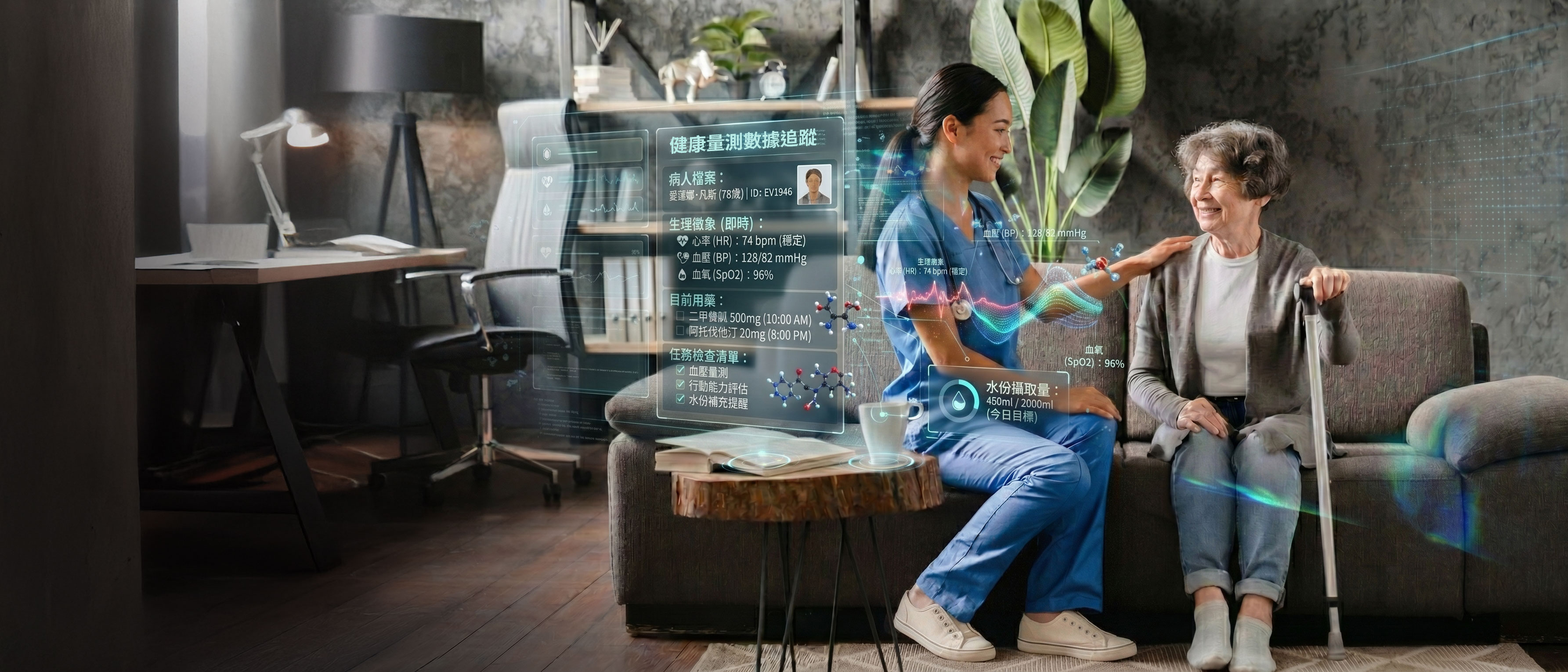
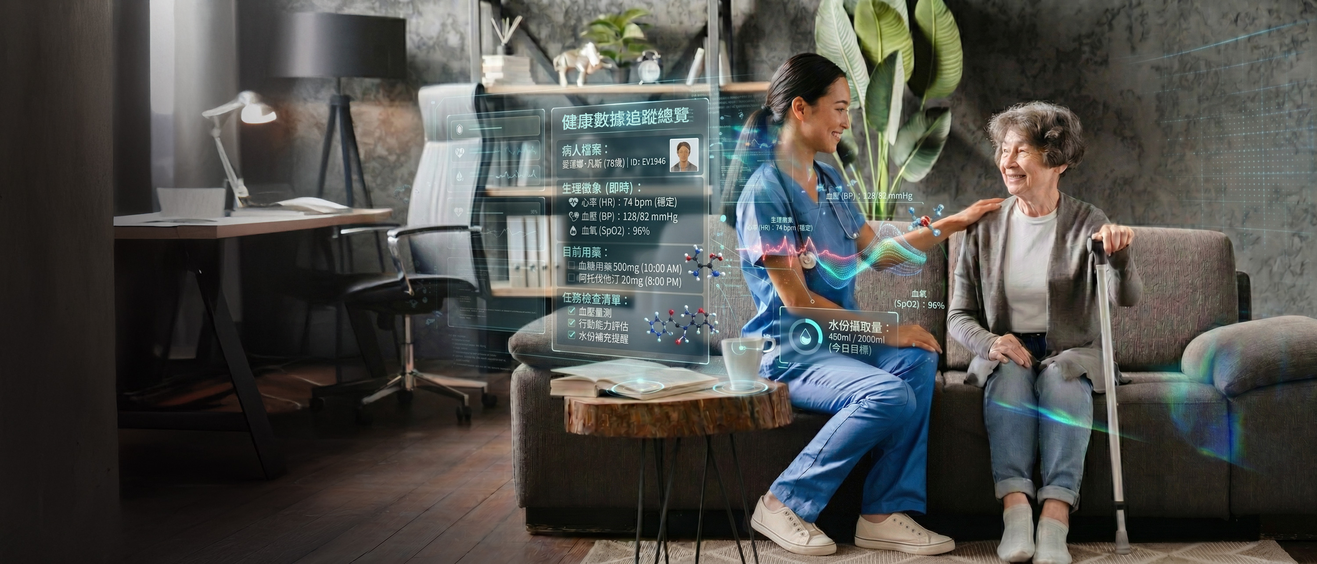
img

diff --git a/web_EZCON_2024IntelligentBuilding/assets/css/main.css b/web_EZCON_2024IntelligentBuilding/assets/css/main.css
@@ -8186,6 +8186,27 @@ img {
     object-position: -240px 0;
   }
 }
+.blog-slide-item.type2 .xb-item--img {
+  position: relative;
+}
+.blog-slide-item.type2 .xb-item--img::before {
+  content: "情境示意圖";
+  color: rgba(255, 255, 255, 0.6);
+  background: rgba(0, 0, 0, 0.2);
+  position: absolute;
+  right: 1rem;
+  top: 1rem;
+  font-size: 0.7rem;
+  z-index: 1;
+  border-radius: 20px;
+  line-height: 1.8;
+  padding: 0.1rem 0.5rem;
+}
+@media (max-width: 767px) {
+  .blog-slide-item.type2 .xb-item--img::before {
+    display: none;
+  }
+}
 @media (max-width: 767px) {
   .blog-slide-item.type2 .integration-list.type2 {
     padding: 0 2rem 2rem 3.2rem;
